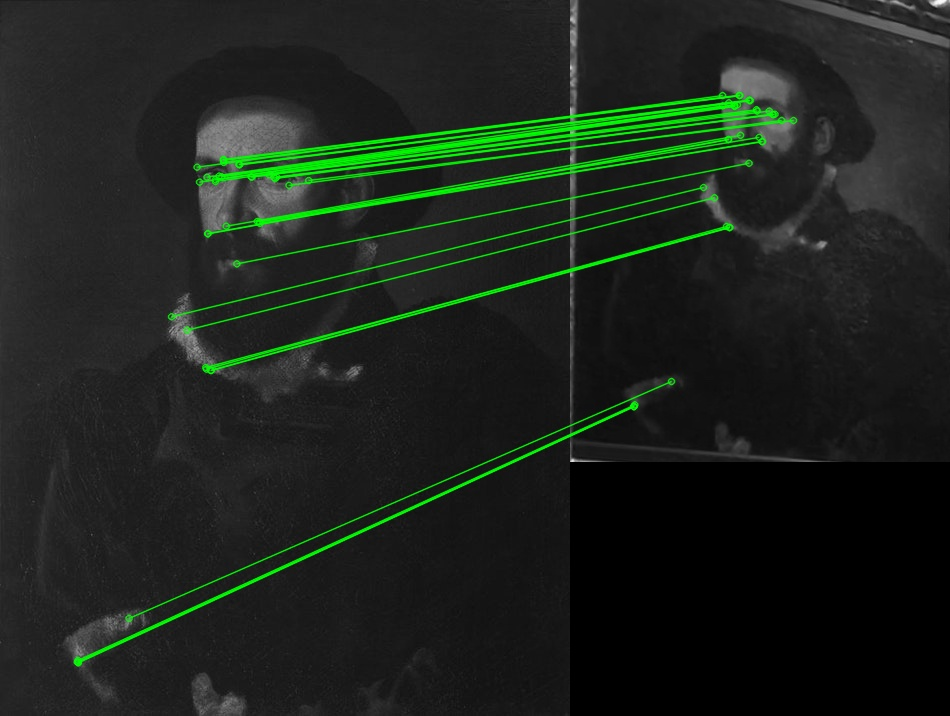
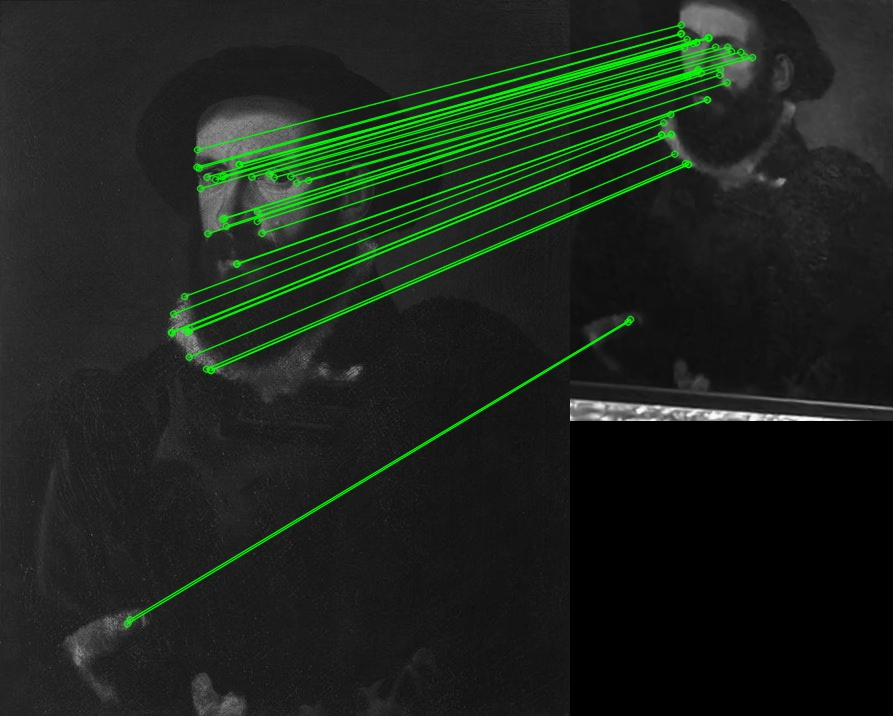
refactor and interface with tasks

diff --git a/tasks/pattern_matching.py b/tasks/pattern_matching.py
@@ -1,90 +1,67 @@
 import os
+import glob
 import cv2
 import numpy as np
 from tools import image_util
 
-def pattern_matching():
-    paintings_found = []
-    painting_db = 'material/paintings_db/'
-    norm_prob = []
-    rectified_db = 'rectified_imgs/'
 
-    # Leggo l'immagine rettificata e la converto in gray
-    sample = 'rectified_imgs/rectified_47.jpg'
-    image = cv2.imread(sample)
-    gray = cv2.cvtColor(image, cv2.COLOR_BGR2GRAY)
-    gray = image
+def match_cut(cut):
+    # debug
+    image_util.show(cut)
 
-    print(f'[DEBUG] proccessing image {sample}')
+    gray = cv2.cvtColor(cut, cv2.COLOR_BGR2GRAY)
 
-    # Ciclo il db dei paintings
-    for paint in os.listdir(painting_db):
-        found = None
-        print(f'[DEBUG] confronto con {paint}')
+    h, w = gray.shape[:2]
 
-        template_path = painting_db + paint
+    MIN_MATCH_COUNT = 3
+    MAX_MATCH = 0
 
-        try:
-            template = cv2.imread(template_path)
-            #template = cv2.cvtColor(template, cv2.COLOR_BGR2GRAY)
-        except Exception as e:
-            print(e)
-            continue
+    matches_list = []
 
-        #template = cv2.Canny(template, 140, 80)
-        (tH, tW) = gray.shape[:2]
+    for f in os.listdir("material/paintings_db/"):
+        for file in glob.glob(f'material/paintings_db/{f}'):
 
-        # Loop over the scales
-        for scale in np.linspace(0.2, 1.0, 10)[::-1]:
-            # resize the image according to the scale, and keep track
-            # of the ratio of the resizing
-            resized = image_util.resize(template, width=int(template.shape[1] * scale))
-            r = gray.shape[1] / float(resized.shape[1])
+            template = cv2.imread(file, cv2.IMREAD_GRAYSCALE)
 
-            # if the resized image is smaller than the template, then break
-            # from the loop
-            if resized.shape[0] < tH or resized.shape[1] < tW:
-                break
+            patchSize = 16
 
-            # detect edges in the resized, grayscale image and apply template
-            # matching to find the template in the image
-            #edged = cv2.Canny(resized, 140, 80)
-            edged = gray
-            result = cv2.matchTemplate(edged, resized, cv2.TM_CCORR_NORMED)
-            (minVal, maxVal, minLoc, maxLoc) = cv2.minMaxLoc(result)
+            orb = cv2.ORB_create(edgeThreshold = patchSize,
+                                    patchSize = patchSize)
 
-            if found is None or maxVal > found[0]:
-                found = (maxVal, maxLoc, r)
+            kp1, des1 = orb.detectAndCompute(template, None)
+            kp2, des2 = orb.detectAndCompute(gray, None)
 
-        if found is not None:
-            (maxVal, maxLoc, r) = found
-            (startX, startY) = (int(maxLoc[0] * r), int(maxLoc[1] * r))
-            (endX, endY) = (int((maxLoc[0] + tW) * r), int((maxLoc[1] + tH) * r))
+            FLANN_INDEX_LSH = 6
+            index_params= dict(algorithm = FLANN_INDEX_LSH,
+                       table_number = 6,
+                       key_size = 12,
+                       multi_probe_level = 1)
+            search_params = dict(checks = 50)
+            
+            flann = cv2.FlannBasedMatcher(index_params, search_params)
+            matches = flann.knnMatch(des1,des2,k=2)
 
-        norm_prob.append(maxVal)
+            # store all the good matches as per Lowe's ratio test.
+            good = []
+            for pair in matches:
+                if len(pair) == 2:
+                    if pair[0].distance < 0.75*pair[1].distance:
+                        good.append(pair[0])
 
-        print(f'IMG: {paint} - SCORE: {maxVal}')
-        paintings_found.append({
-            'maxVal': maxVal,
-            'startX': startX,
-            'startY': startY,
-            'endX': endX,
-            'endY': endY,
-            'sprite': paint
-        })
+            matches_list.append({
+                'file': f,
+                'score': len(good)
+            })
 
-    team = list(sorted(paintings_found, key=lambda k: k['maxVal'], reverse=True))[:3]
-    #norm = sorted([(float(i) - np.min(norm_prob)) / (np.max(norm_prob) - np.min(norm_prob)) for i in norm_prob], reverse=True)[:3]
+    matches_list = list(sorted(matches_list, key=lambda k: k['score'], reverse=True))
+    
+    print(f'Best match is FILE : {matches_list[0]["file"]}')
+    print(f'SCORE : {matches_list[0]["score"]}')
 
-    #for i in range(3):
-        #team[i]["maxVal"] = norm[i]
+    # debug
+    image_util.show(cv2.imread(f'material/paintings_db/{matches_list[0]["file"]}'))
 
-    print('\n\n')
-    for p in team:
-        cv2.rectangle(image, (p['startX'], p['startY']), (p['endX'], p['endY']), (0, 0, 255), 2)
-        cv2.putText(image, p['sprite'], (p['endX'] + 10, p['startY'] + 10), cv2.FONT_HERSHEY_SIMPLEX, 0.5, (0, 0, 255), 2)
-        print(f'{p["sprite"]}\tSCORE: {p["maxVal"]}')
-    print('\n\n')
 
-    cv2.imshow("Image", image)
-    cv2.waitKey(0)
+def match(cuts) :
+    for cut in cuts:
+        match_cut(cut)

diff --git a/tasks/homography_test.py b/tasks/homography_test.py
@@ -6,27 +6,28 @@ import time
 
 
 def find_homography():
-    image = cv2.imread("rectified_imgs/rectified_47.jpg")
+    image = cv2.imread("rectified_imgs/rectified_51.jpg")
     gray = cv2.cvtColor(image, cv2.COLOR_BGR2GRAY)
+
+    #gray = image
     h, w = gray.shape[:2]
 
     MIN_MATCH_COUNT = 3
     MAX_MATCH = 0
 
-    start_time = time.time()
-
     matches_list = []
 
     for f in os.listdir("material/paintings_db/"):
         for file in glob.glob(f'material/paintings_db/{f}'):
-            print(f'Reading image: {file}')
+            print("Matching for file {}".format(file))
 
-            template = cv2.imread(file, 0)
+            template = cv2.imread(file, cv2.IMREAD_GRAYSCALE)
 
             patchSize = 16
 
             orb = cv2.ORB_create(edgeThreshold = patchSize,
                                     patchSize = patchSize)
+
             kp1, des1 = orb.detectAndCompute(template, None)
             kp2, des2 = orb.detectAndCompute(gray, None)
 
@@ -36,7 +37,7 @@ def find_homography():
                        key_size = 12,
                        multi_probe_level = 1)
             search_params = dict(checks = 50)
-
+            
             flann = cv2.FlannBasedMatcher(index_params, search_params)
             matches = flann.knnMatch(des1,des2,k=2)
             # store all the good matches as per Lowe's ratio test.
@@ -44,56 +45,17 @@ def find_homography():
 
             for pair in matches:
                 if len(pair) == 2:
-                    if pair[0].distance < 0.7*pair[1].distance:
+                    if pair[0].distance < 0.75*pair[1].distance:
                         good.append(pair[0])
-
-            print('len(good) ', len(good))
-            print('match %03d, min_match %03d, kp %03d' % (len(good), MIN_MATCH_COUNT, len(kp1)))
-            print('\n')
 
             matches_list.append({
                 'file': f,
                 'score': len(good)
             })
 
-            if len(good) > MIN_MATCH_COUNT and len(good) >= MAX_MATCH:
-                MAX_MATCH = len(good)
-                src_pts = np.float32([ kp1[m.queryIdx].pt for m in good ]).reshape(-1,1,2)
-                dst_pts = np.float32([ kp2[m.trainIdx].pt for m in good ]).reshape(-1,1,2)
-                M, mask = cv2.findHomography(src_pts, dst_pts, cv2.RANSAC,5.0)
-                matchesMask = mask.ravel().tolist()
-                h,w = template.shape
-                pts = np.float32([ [0,0],[0,h-1],[w-1,h-1],[w-1,0] ]).reshape(-1,1,2)
-
-                try:
-                    dst = cv2.perspectiveTransform(pts,M)
-                except:
-                    print('Error')
-                    break
-
-                # dst contains points of bounding box of template in image.
-                # draw a close polyline around the found template:
-                image = cv2.polylines(image,[np.int32(dst)],
-                                      isClosed = True,
-                                      color = (0,255,0),
-                                      thickness = 3,
-                                      lineType = cv2.LINE_AA)
-            else:
-                print("Not enough matches are found - {}/{}".format(len(good), MIN_MATCH_COUNT))
-                matchesMask = None
-
-            draw_params = dict(matchColor = (0,255,0), # draw matches in green color
-                       singlePointColor = None,
-                       matchesMask = matchesMask, # draw only inliers
-                       flags = 2)
-
-            if len(good) > MIN_MATCH_COUNT and len(good) >= MAX_MATCH:
-                print(f'FOUND NEW MATCH: {file}')
-                output2 = cv2.drawMatches(template,kp1,gray,kp2,good,None,**draw_params)
-                cv2.imwrite('output_homography.jpg', image)
-                cv2.imwrite('output2.jpg', output2)
-
-            print('elapsed time ', time.time()-start_time)
-
     matches_list = list(sorted(matches_list, key=lambda k: k['score'], reverse=True))
     [print(f'IMAGE: {el["file"]} - SCORE: {el["score"]}') for el in matches_list]
+    '''
+    print("Best match for FILE : {}".format(matches_list[0]["file"]))
+    print("SCORE : {}".format(matches_list[0]["score"]))
+    '''

diff --git a/task_runner.py b/task_runner.py
@@ -3,21 +3,24 @@ from netloader import *
 from tools import box_util
 from tools import image_util
 from tasks import contours
+from tasks import pattern_matching
 
 
 def start(image) :
     # painting detection
-    print("Detecting ROI for paintings")
+    print("Detecting ROI")
     painting_boxes = detection.detect(image, painting_net, painting_classes)
-    print("Done")
     #box_util.box_drawer(image, painting_boxes, (0, 255, 0), "painting")
     #image_util.show(image)
 
     # painting rectification
-    contours.find_countours(image, painting_boxes)
+    print("Rectifing frame and cutting the paintings")
+    cuts = contours.find_countours(image, painting_boxes)
 
 
     # painting retrieval
+    print("Retrival for painting from DB")
+    pattern_matching.match(cuts)
 
 
     # people detection

diff --git a/tasks/contours.py b/tasks/contours.py
@@ -70,9 +70,11 @@ def contour(image) :
     rounded[rounded < 0] = 0
 
     cut = warped_image[rounded[0, 1]:rounded[2, 1], rounded[0, 0]:rounded[2, 0]]
-    image_util.show(cut)
+    #image_util.show(cut)
 
-    save_img_cut(cut)
+    #cut = image_util.remove_border(cut, 0.2)
+
+    #save_img_cut(cut)
 
     return cut
 
@@ -92,3 +94,4 @@ def find_countours(image, boxes) :
     for box in boxes :
         roi = image[box[1]:box[1]+box[3], box[0]:box[0]+box[2]]
         rectified.append(contour(roi))
+    return rectified

diff --git a/tools/image_util.py b/tools/image_util.py
@@ -94,3 +94,9 @@ def resize(image, width=None, height=None, inter=cv2.INTER_AREA):
 
     # return the resized image
     return resized
+
+
+def remove_border(image, scale) :
+    size = np.array(image.shape)
+    border = np.round(size * scale).astype(int)
+    return image[border[0]:size[0]-border[0], border[1]:size[1]-border[1]]

diff --git a/tasks/test.py b/tasks/test.py
@@ -1,0 +1,4 @@
+from homography_test import find_homography
+
+if __name__ == "__main__":
+    find_homography()

diff --git a/README.md b/README.md
@@ -6,6 +6,14 @@ The videos are captured in the art museum Galleria Estense, Modena.
 Download the weights and cfg file from [here](https://drive.google.com/file/d/1yxGeWfTchxRBUCheJwRFfQpwglqAMOJY/view?usp=sharing).  
 Unzip the directory in the root dir of the project.
 
+### To enable non free opencv functions 
+You must compile opencv from source 
+```
+git clone --recursive https://github.com/skvark/opencv-python.git
+cd opencv-python
+export CMAKE_ARGS="-DOPENCV_ENABLE_NONFREE=ON"
+python setup.py bdist_wheel
+```
 
 ## Usage
 ```shell
